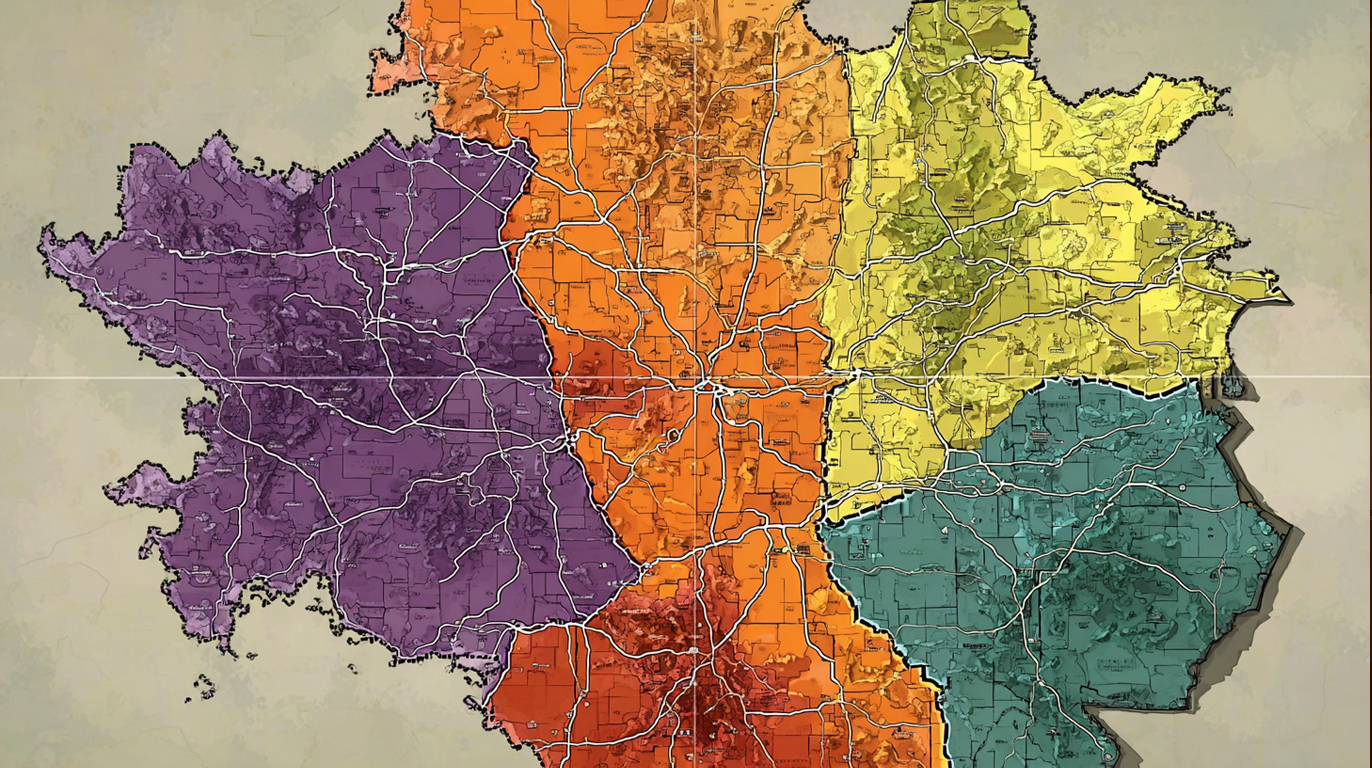
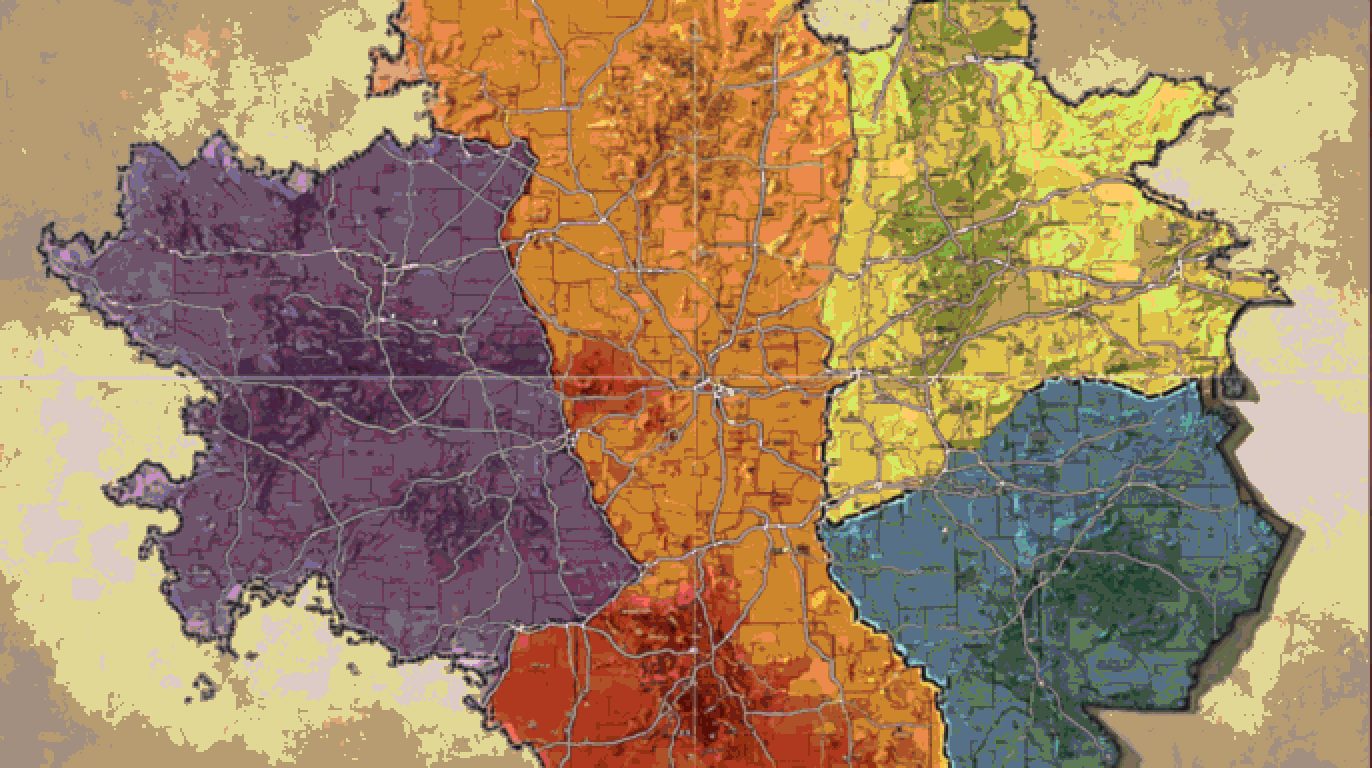
map fixed

diff --git a/MapScreen.js b/MapScreen.js
@@ -1235,18 +1235,29 @@
       ctx.textBaseline = "bottom";
       ctx.shadowColor = "rgba(6, 10, 18, 0.85)";
       ctx.shadowBlur = 10;
+      ctx.strokeStyle = "rgba(0, 0, 0, 0.95)";
+      ctx.lineWidth = Math.max(2, Math.round(nameSize * 0.16));
+      ctx.lineJoin = "round";
+      ctx.miterLimit = 2;
+      ctx.strokeText(`${district.name} (${Math.round(displayCount)})`, position.x, position.y - radius - 10);
       ctx.fillText(`${district.name} (${Math.round(displayCount)})`, position.x, position.y - radius - 10);
       pushTypographyDebugLabel("h3", position.x, position.y - radius - 10);
       ctx.restore();
     } else if (selected) {
       ctx.save();
       const districtLabelType = getCanvasSemanticForMap("districtLabel", "h3");
-      ctx.font = `${districtLabelType.weight} ${Math.round(districtLabelType.size * (rect.w / 1280))}px ${UI_FONT_FAMILY}`;
+      const selectedNameSize = Math.round(districtLabelType.size * (rect.w / 1280));
+      ctx.font = `${districtLabelType.weight} ${selectedNameSize}px ${UI_FONT_FAMILY}`;
       ctx.fillStyle = unlocked ? MAP_HELLFIRE_TEXT.title : MAP_HELLFIRE_TEXT.dim;
       ctx.textAlign = "center";
       ctx.textBaseline = "bottom";
       ctx.shadowColor = "rgba(6, 10, 18, 0.85)";
       ctx.shadowBlur = 10;
+      ctx.strokeStyle = "rgba(0, 0, 0, 0.95)";
+      ctx.lineWidth = Math.max(2, Math.round(selectedNameSize * 0.16));
+      ctx.lineJoin = "round";
+      ctx.miterLimit = 2;
+      ctx.strokeText(district.name, position.x, position.y - radius - 10);
       ctx.fillText(district.name, position.x, position.y - radius - 10);
       pushTypographyDebugLabel("h3", position.x, position.y - radius - 10);
       ctx.restore();
@@ -1286,17 +1297,24 @@
     ctx.save();
     ctx.textAlign = "center";
     ctx.textBaseline = "top";
-    ctx.shadowColor = "rgba(0,0,0,0.85)";
-    ctx.shadowBlur = 8;
+    ctx.shadowColor = "rgba(0,0,0,0)";
+    ctx.shadowBlur = 0;
+    ctx.strokeStyle = "rgba(0,0,0,0.95)";
+    ctx.lineJoin = "round";
+    ctx.miterLimit = 2;
 
     ctx.font = `${mapHeadingTitleType.weight} ${line1Size}px ${UI_FONT_FAMILY}`;
     ctx.fillStyle = MAP_HELLFIRE_TEXT.title;
+    ctx.lineWidth = Math.max(2, Math.round(line1Size * 0.15));
+    ctx.strokeText(line1, cx, topY);
     ctx.fillText(line1, cx, topY);
     pushTypographyDebugLabel("h3", cx, topY);
 
     const playerName = getActiveSave()?.playerName?.trim() || "Pastor";
     ctx.font = `${mapHeadingSubtitleType.weight} ${line2Size}px ${UI_FONT_FAMILY}`;
     ctx.fillStyle = MAP_HELLFIRE_TEXT.dim;
+    ctx.lineWidth = Math.max(2, Math.round(line2Size * 0.15));
+    ctx.strokeText(`Pastor ${playerName}, you have been called to liberate it.`, cx, topY + line1Size + lineGap);
     ctx.fillText(`Pastor ${playerName}, you have been called to liberate it.`, cx, topY + line1Size + lineGap);
     pushTypographyDebugLabel("subhead", cx, topY + line1Size + lineGap);
 
